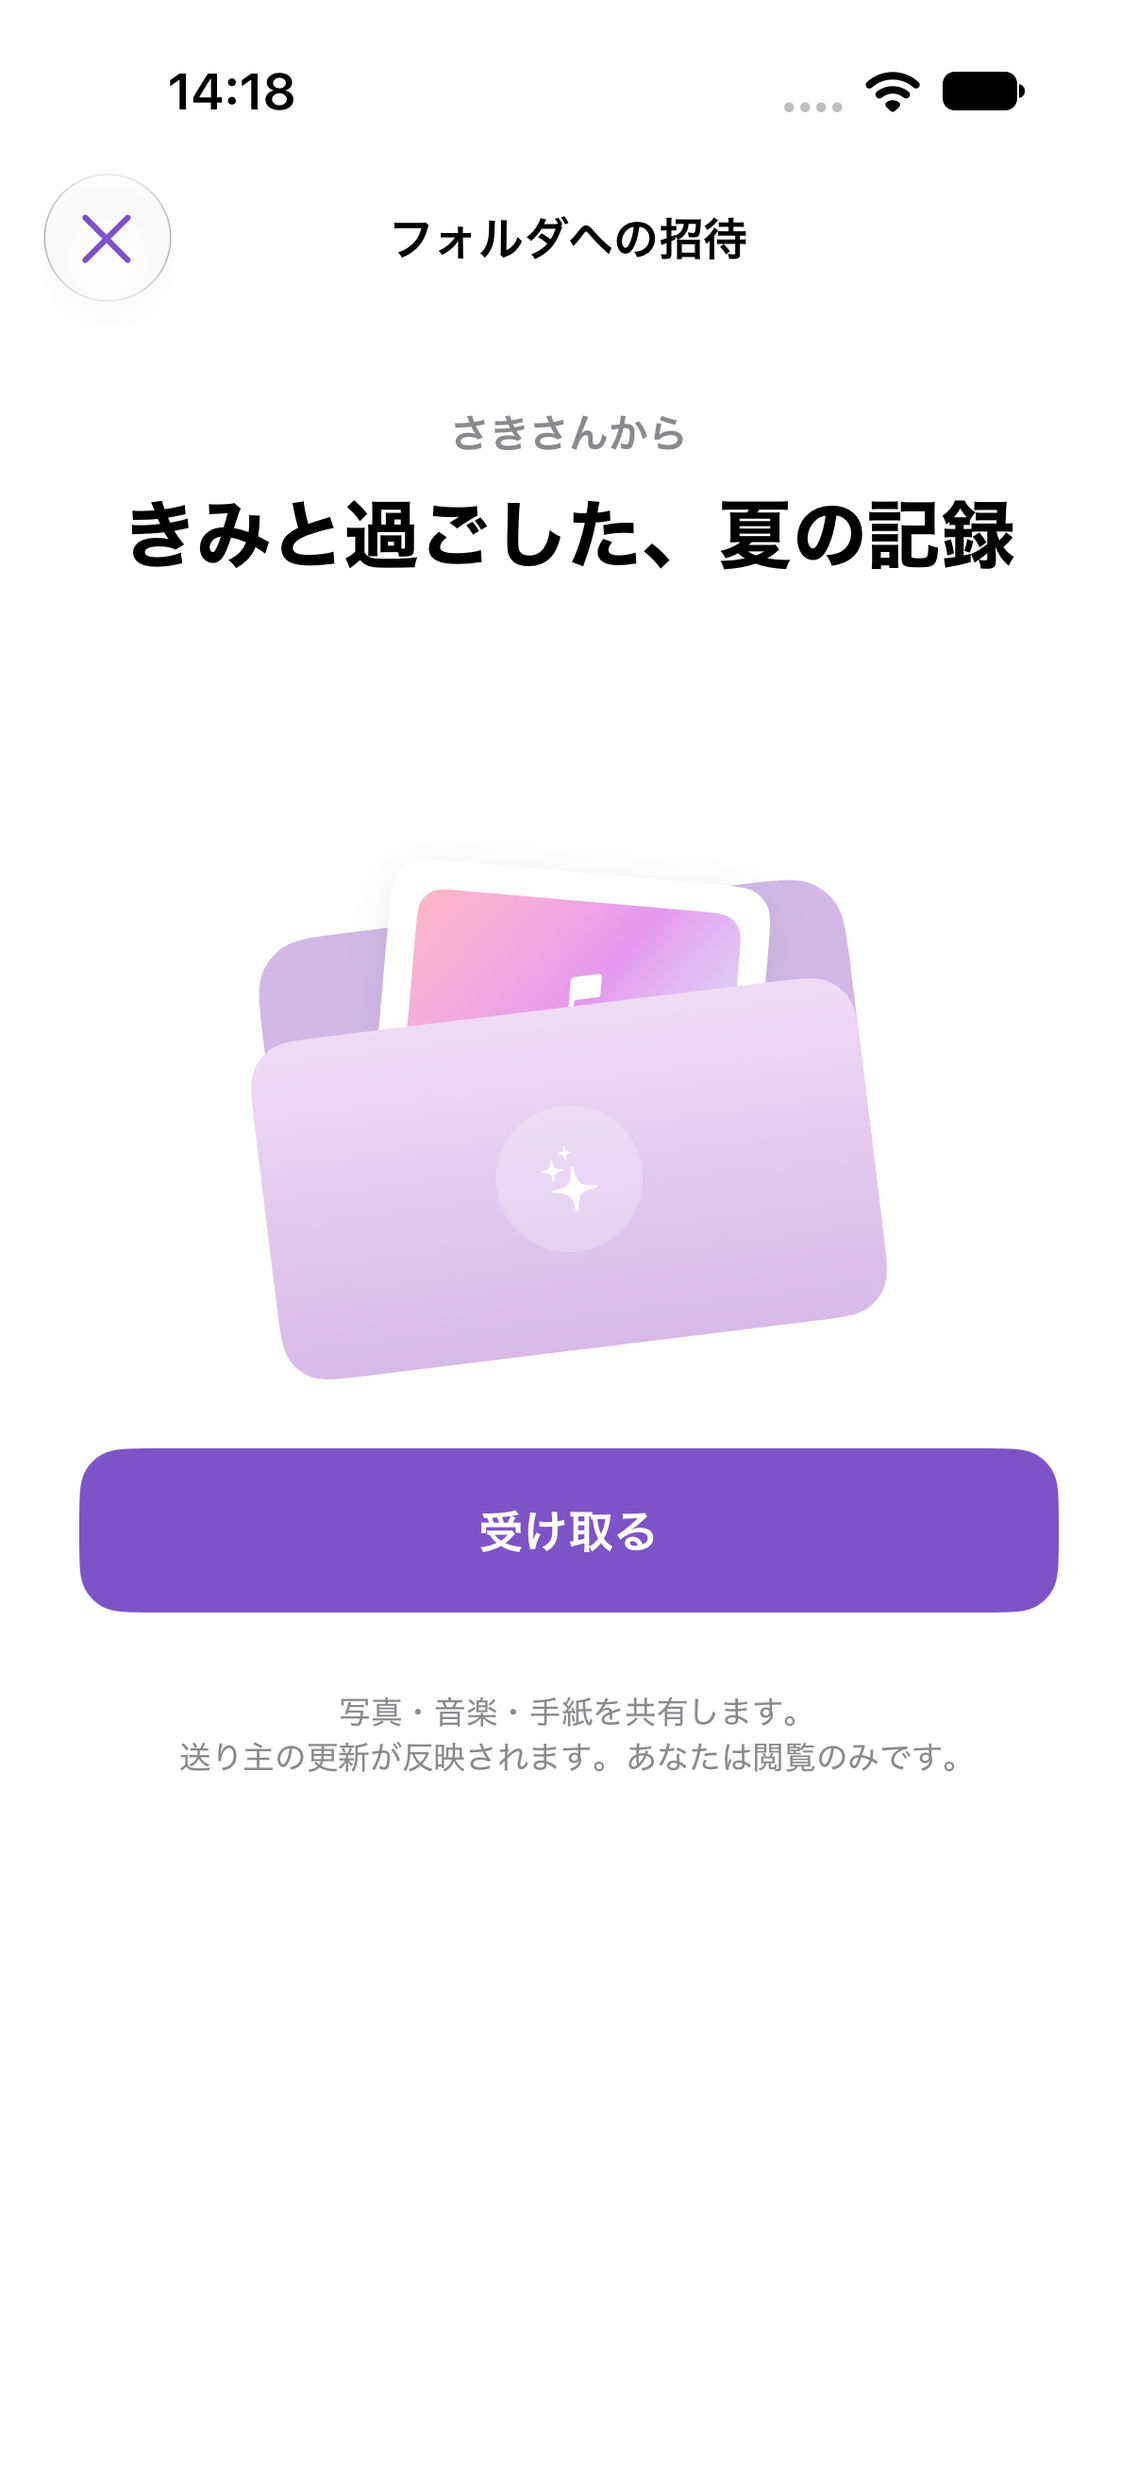
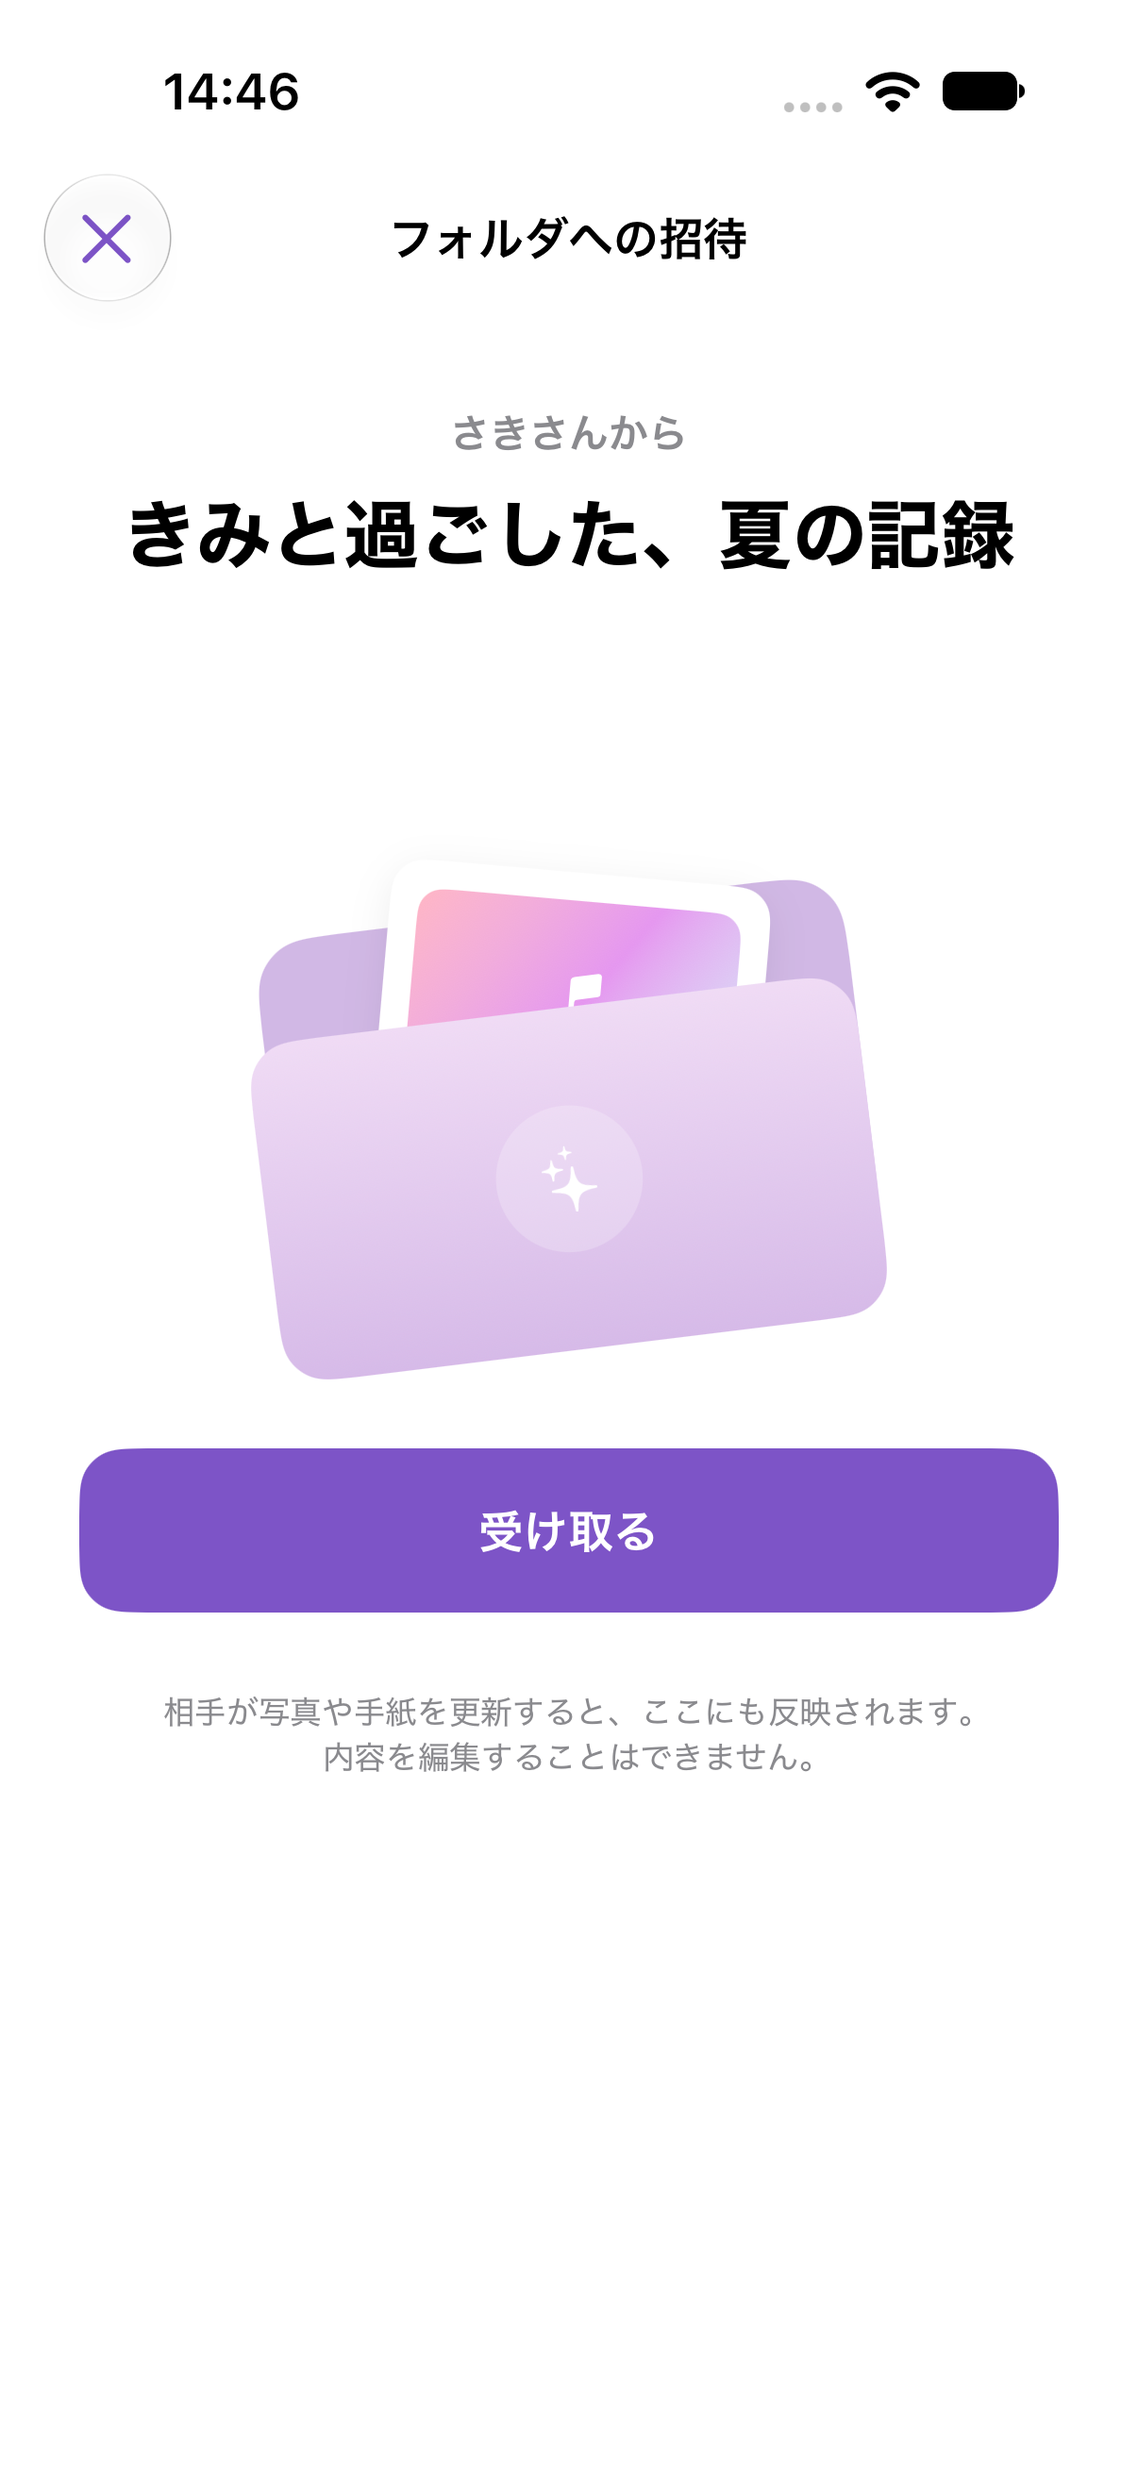
招待と共有の文面を自然な案内に統一

Changed region(s): [[0.1534, 0.6796, 0.8284, 0.7414], [0.1534, 0.0309, 0.2761, 0.0618]]

diff --git a/sotsugyo/View/FolderInvitationView.swift b/sotsugyo/View/FolderInvitationView.swift
@@ -44,7 +44,7 @@ struct FolderInvitationView: View {
                             }
                         }
                         controls
-                        Text("写真・音楽・手紙を共有します。\n送り主の更新が反映されます。あなたは閲覧のみです。")
+                        Text("相手が写真や手紙を更新すると、ここにも反映されます。\n内容を編集することはできません。")
                             .font(.caption).foregroundStyle(.secondary)
                             .multilineTextAlignment(.center)
                     }
@@ -123,7 +123,7 @@ struct FolderInviteShareView: View {
                             .font(.system(size: 28, weight: .heavy, design: .rounded))
                             .multilineTextAlignment(.center).padding(.top, 20)
                         GiftEnvelope(opened: false, reduceMotion: true).scaleEffect(0.72).frame(height: 210)
-                        Text("リンクを送った相手と、\nこのフォルダの写真・音楽・手紙を共有します。")
+                        Text("リンクを送ると、相手もこのフォルダを見られます。\n写真や手紙の更新も、相手に反映されます。")
                             .font(.subheadline).multilineTextAlignment(.center)
                         if model.isWorking { ProgressView("リンクを準備しています…") }
                         else if let invitation = model.invitation, !model.isRevoked {
@@ -133,7 +133,7 @@ struct FolderInviteShareView: View {
                             }
                             .buttonStyle(.borderedProminent).buttonBorderShape(.roundedRectangle(radius: 16))
                             .accessibilityIdentifier("invite.share")
-                            Text("\(invitation.expiresAt.formatted(date: .abbreviated, time: .omitted))まで参加できます。\nリンクを知っているログイン済みの方が閲覧できます。")
+                            Text("\(invitation.expiresAt.formatted(date: .abbreviated, time: .omitted))まで参加できます。\nリンクを知っている方は、ログインすると参加できます。")
                                 .font(.caption).multilineTextAlignment(.center)
                             Button("このリンクを無効にする", role: .destructive) { confirmRevoke = true }
                                 .font(.footnote)
@@ -151,7 +151,7 @@ struct FolderInviteShareView: View {
             .toolbar { ToolbarItem(placement: .cancellationAction) { Button("閉じる") { dismiss() }.disabled(model.isWorking) } }
             .confirmationDialog("招待リンクを無効にしますか？", isPresented: $confirmRevoke, titleVisibility: .visible) {
                 Button("リンクを無効にする", role: .destructive) { Task { await model.revoke() } }
-            } message: { Text("このリンクからの新しい参加を停止します。参加済みの方との共有は続きます。") }
+            } message: { Text("このリンクからは参加できなくなります。すでに受け取った相手は、引き続きフォルダを見られます。") }
         }
         .interactiveDismissDisabled(model.isWorking)
     }
@@ -191,7 +191,7 @@ private struct GiftEnvelope: View {
                 .opacity(opened ? 0.75 : 1)
         }
         .accessibilityElement(children: .ignore)
-        .accessibilityLabel(opened ? "開いた思い出の封筒" : "思い出を包んだ封筒")
+        .accessibilityLabel(opened ? "開いた招待の封筒" : "招待の封筒")
     }
 }
 

diff --git a/firebase/hosting/index.html b/firebase/hosting/index.html
@@ -1,4 +1,4 @@
-<!doctype html><html lang="ja"><head><meta charset="utf-8"><meta name="viewport" content="width=device-width,initial-scale=1"><meta name="robots" content="noindex,nofollow"><meta name="referrer" content="no-referrer"><title>思い出の贈りもの — PicTune</title>
-<style>a[hidden]{display:none}body{margin:0;min-height:100svh;display:grid;place-items:center;background:radial-gradient(at 20% 20%,#e6d5fb,transparent 65%),radial-gradient(at 90% 70%,#fbddea,transparent 60%),#faf6fc;color:#392b53;font-family:system-ui,sans-serif}main{max-width:420px;text-align:center;padding:36px 24px}.brand{font-size:12px;letter-spacing:.3em}.gift{font-size:90px;margin:36px}h1{font-family:serif;font-size:32px;line-height:1.5}p{font-size:15px;line-height:1.9}a,button{display:block;background:#8660ba;color:white;text-decoration:none;padding:17px;border-radius:32px;margin:26px auto;border:0;font-size:16px;font-weight:600}small{display:block;line-height:1.8;color:#70627d}#invalid{display:none}</style></head><body><main><div class="brand">✧ PICTUNE / FOR YOU</div><div class="gift" aria-hidden="true">💌</div><h1>あなたへ、<br>思い出の贈りもの。</h1><p>写真と音楽、伝えたい気持ちを込めて。<br>PicTuneでログインして受け取ってください。</p><a id="open" hidden>PicTuneで開く</a><p id="invalid">招待リンクの形式が正しくありません。</p><small>アプリが開かない場合は、最新のPicTuneをインストールしてから、届いたリンクをもう一度開いてください。<br>このページには、写真や手紙は表示されません。</small></main><script>
+<!doctype html><html lang="ja"><head><meta charset="utf-8"><meta name="viewport" content="width=device-width,initial-scale=1"><meta name="robots" content="noindex,nofollow"><meta name="referrer" content="no-referrer"><title>フォルダへの招待 — PicTune</title>
+<style>a[hidden]{display:none}body{margin:0;min-height:100svh;display:grid;place-items:center;background:radial-gradient(at 20% 20%,#e6d5fb,transparent 65%),radial-gradient(at 90% 70%,#fbddea,transparent 60%),#faf6fc;color:#392b53;font-family:system-ui,sans-serif}main{max-width:420px;text-align:center;padding:36px 24px}.brand{font-size:12px;letter-spacing:.3em}.gift{font-size:90px;margin:36px}h1{font-family:serif;font-size:32px;line-height:1.5}p{font-size:15px;line-height:1.9}a,button{display:block;background:#8660ba;color:white;text-decoration:none;padding:17px;border-radius:32px;margin:26px auto;border:0;font-size:16px;font-weight:600}small{display:block;line-height:1.8;color:#70627d}#invalid{display:none}</style></head><body><main><div class="brand">PicTune</div><div class="gift" aria-hidden="true">💌</div><h1>フォルダへの<br>招待が届きました</h1><p>PicTuneを開いてログインすると、<br>共有されたフォルダを受け取れます。</p><a id="open" hidden>PicTuneで開く</a><p id="invalid">招待リンクの形式が正しくありません。</p><small>アプリが開かない場合は、最新のPicTuneをインストールしてから、届いたリンクをもう一度開いてください。<br>このページには、写真や手紙は表示されません。</small></main><script>
 const match=location.pathname.match(/^\/invite\/([a-f0-9]{64})$/);const button=document.getElementById('open');if(match&&!location.search&&!location.hash){button.href='pictune://invite/'+match[1];button.hidden=false;}else{document.getElementById('invalid').style.display='block';button.remove();}
 </script></body></html>

diff --git a/sotsugyo/View/SharedFolderView.swift b/sotsugyo/View/SharedFolderView.swift
@@ -27,10 +27,10 @@ struct SharedFolderView: View {
                     Text(error).font(.subheadline).multilineTextAlignment(.center)
                     Button("再読み込み") { retryID = UUID() }
                 }
-                if model.isLoading { ProgressView("思い出を読み込んでいます…") }
+                if model.isLoading { ProgressView("フォルダを読み込んでいます…") }
                 if let folder = model.folder, !folder.letter.isEmpty {
                     VStack(alignment: .leading, spacing: 16) {
-                        Label("あなたへの手紙", systemImage: "envelope.open").font(.headline).foregroundStyle(.purple)
+                        Label("手紙", systemImage: "envelope.open").font(.headline).foregroundStyle(.purple)
                         Text(folder.letter).font(.body).lineSpacing(8).frame(maxWidth: .infinity, alignment: .leading)
                             .accessibilityIdentifier("shared.letter")
                     }
@@ -50,7 +50,7 @@ struct SharedFolderView: View {
             }.padding(24).frame(maxWidth: 560).frame(maxWidth: .infinity)
         }
         .background(Color(uiColor: .systemGroupedBackground))
-        .navigationTitle("届いた思い出").navigationBarTitleDisplayMode(.inline)
+        .navigationTitle("共有されたフォルダ").navigationBarTitleDisplayMode(.inline)
         .task(id: "\(retryID)-\(scenePhase == .active)") {
             if scenePhase == .active { await model.observe(reference) }
         }
@@ -64,7 +64,7 @@ struct SharedFolderLibrarySection: View {
     var body: some View {
         VStack(alignment: .leading, spacing: 12) {
             if !folders.isEmpty {
-                Text("届いた思い出").font(.title2.bold())
+                Text("共有されたフォルダ").font(.title2.bold())
                 ForEach(folders) { folder in
                     NavigationLink {
                         SharedFolderView(reference: folder)
@@ -73,7 +73,7 @@ struct SharedFolderLibrarySection: View {
                             Image(systemName: "envelope.open.fill").font(.title2).foregroundStyle(.purple)
                             VStack(alignment: .leading, spacing: 4) {
                                 Text(folder.title).font(.headline)
-                                Text("送り主の更新が届きます").font(.caption).foregroundStyle(.secondary)
+                                Text("相手の更新も反映されます").font(.caption).foregroundStyle(.secondary)
                             }
                             Spacer()
                             Image(systemName: "chevron.right").foregroundStyle(.secondary)
@@ -94,7 +94,7 @@ struct SharedFolderLibrarySection: View {
                     folders = updated; error = nil
                 }
             }
-            catch { if !Task.isCancelled { self.error = "届いた思い出を読み込めませんでした。" } }
+            catch { if !Task.isCancelled { self.error = "共有されたフォルダを読み込めませんでした。" } }
         }
     }
 }

diff --git a/sotsugyo/View/main/FolderContentView.swift b/sotsugyo/View/main/FolderContentView.swift
@@ -255,7 +255,7 @@ struct FolderDetailView: View {
                     }
 
                     Button { showInvite = true } label: {
-                        Label("招待リンクで贈る", systemImage: "gift.fill")
+                        Label("リンクで共有", systemImage: "gift.fill")
                             .font(.headline).frame(maxWidth: .infinity, minHeight: 48)
                     }
                     .buttonStyle(.borderedProminent).tint(.purple).buttonBorderShape(.capsule)

diff --git a/docs/verification/invite-links/README.md b/docs/verification/invite-links/README.md
@@ -4,7 +4,7 @@
 
 ## 画面
 
-招待・送信画面は送り主と実際のフォルダ名を主役にしています。太めのフォントと紫の封筒を残し、英字の飾り・抽象的なコピー・背景のぼかし・常時表示の星を外しました。受け取り成功時にカードが現れ、キラキラした粒子が広がります。
+招待・送信画面は送り主と実際のフォルダ名を主役にしています。太めのフォントと紫の封筒を残し、英字の飾り・抽象的なコピー・背景のぼかし・常時表示の星を外しました。受け取り成功時にカードが現れ、キラキラした粒子が広がります。文面は「リンクで共有」「共有されたフォルダ」など、操作や内容が直接伝わる表現に揃えています。
 
 Xcode 27.2 beta 2 / iPhone 18 Pro / iOS 27.0 の専用シミュレーター「PicTune Model Review」。写真・送り主名は確認用の架空データです。
 
@@ -23,11 +23,12 @@ Xcode 27.2 beta 2 / iPhone 18 Pro / iOS 27.0 の専用シミュレーター「Pi
 - Firestore/Storageエミュレーターのアクセス制御テスト9件成功。匿名拒否、招待一覧取得拒否、不正な参加・画像参照の拒否、同一招待の再参加、手紙・曲の閲覧と編集拒否、期限切れ・無効化・元フォルダ削除、共有画像、QRによる相手への保存（写真未作成の新規ユーザーを含む）、所有者付きの画像アップロードを確認。
 - 最新mainの写真詳細改善を統合後、単体43件と招待作成・開封・写真詳細のUIテスト3件を再実行して成功。
 - 2026-10-07: 送り主・フォルダ名を主役にした画面で、招待作成・無効化、期限切れ、通信失敗、開封と同期のUIテスト4件が成功。最終の文字色調整後にも送信・開封の2件を再実行し成功。掲載画像は最終画面です。
+- 2026-10-07: 文面のみの調整後、招待作成・無効化と開封・手紙の同期のUIテスト2件が成功。送信・受信・共有フォルダの文章の折り返しを確認し、掲載画像を更新。配色・フォント・アニメーションは変更していません。
 - `git diff --check` 成功。
 
 ## 本番への反映
 
-- Firebase Hostingに案内ページと `.well-known/apple-app-site-association` を公開し、HTTPS取得を確認。
+- Firebase Hostingに案内ページと `.well-known/apple-app-site-association` を公開し、HTTPS取得を確認。2026-10-07の案内文更新も公開し、HTTPSで新しい文面を確認。
 - 既存の写真ドキュメント367件から参照を調べ、526件の画像所有権レコードを作成。Storageオブジェクト531件のメタデータを更新。画像本体・写真ドキュメントは変更・削除していません。
 - 更新前のメタデータは `/tmp/pictune-image-access-backup-20261006-204306.json` にバックアップ。
 - Firestore・Storageの招待制ルールを本番へ反映済み。

diff --git a/docs/folder-invitations.md b/docs/folder-invitations.md
@@ -2,9 +2,9 @@
 
 ## 仕様
 
-- フォルダ詳細の「招待リンクで贈る」から、256 bit相当のランダムな招待トークンを含むHTTPSリンクを発行します。リンクの参加期限は7日です。同じフォルダの有効なリンクを再利用でき、無効化後は再発行できます。
+- フォルダ詳細の「リンクで共有」から、256 bit相当のランダムな招待トークンを含むHTTPSリンクを発行します。リンクの参加期限は7日です。同じフォルダの有効なリンクを再利用でき、無効化後は再発行できます。
 - リンクを知っているログイン済みの利用者が参加できます。未ログイン時は招待を保持し、ログイン後に受け取り画面へ戻ります。
-- 参加者は閲覧専用です。元フォルダの写真・楽曲情報・手紙の変更をFirestoreのリスナーで表示します。受信者のフォルダ一覧には「届いた思い出」として表示します。
+- 参加者は閲覧専用です。元フォルダの写真・楽曲情報・手紙の変更をFirestoreのリスナーで表示します。受信者のフォルダ一覧には「共有されたフォルダ」として表示します。
 - 参加処理は共有権限と受信一覧への参照を1バッチで保存します。同じ招待の再試行ではフォルダが重複しません。
 - リンクの無効化・期限切れは新しい参加を停止します。参加済みの利用者との共有は継続します。元フォルダの削除後は閲覧できなくなります。
 - 成功した参加処理の後だけ、封筒からカードが現れ、光と粒子が広がる演出と触覚フィードバックを表示します。Reduce Motionでは粒子を表示せず、短い切り替えにします。
